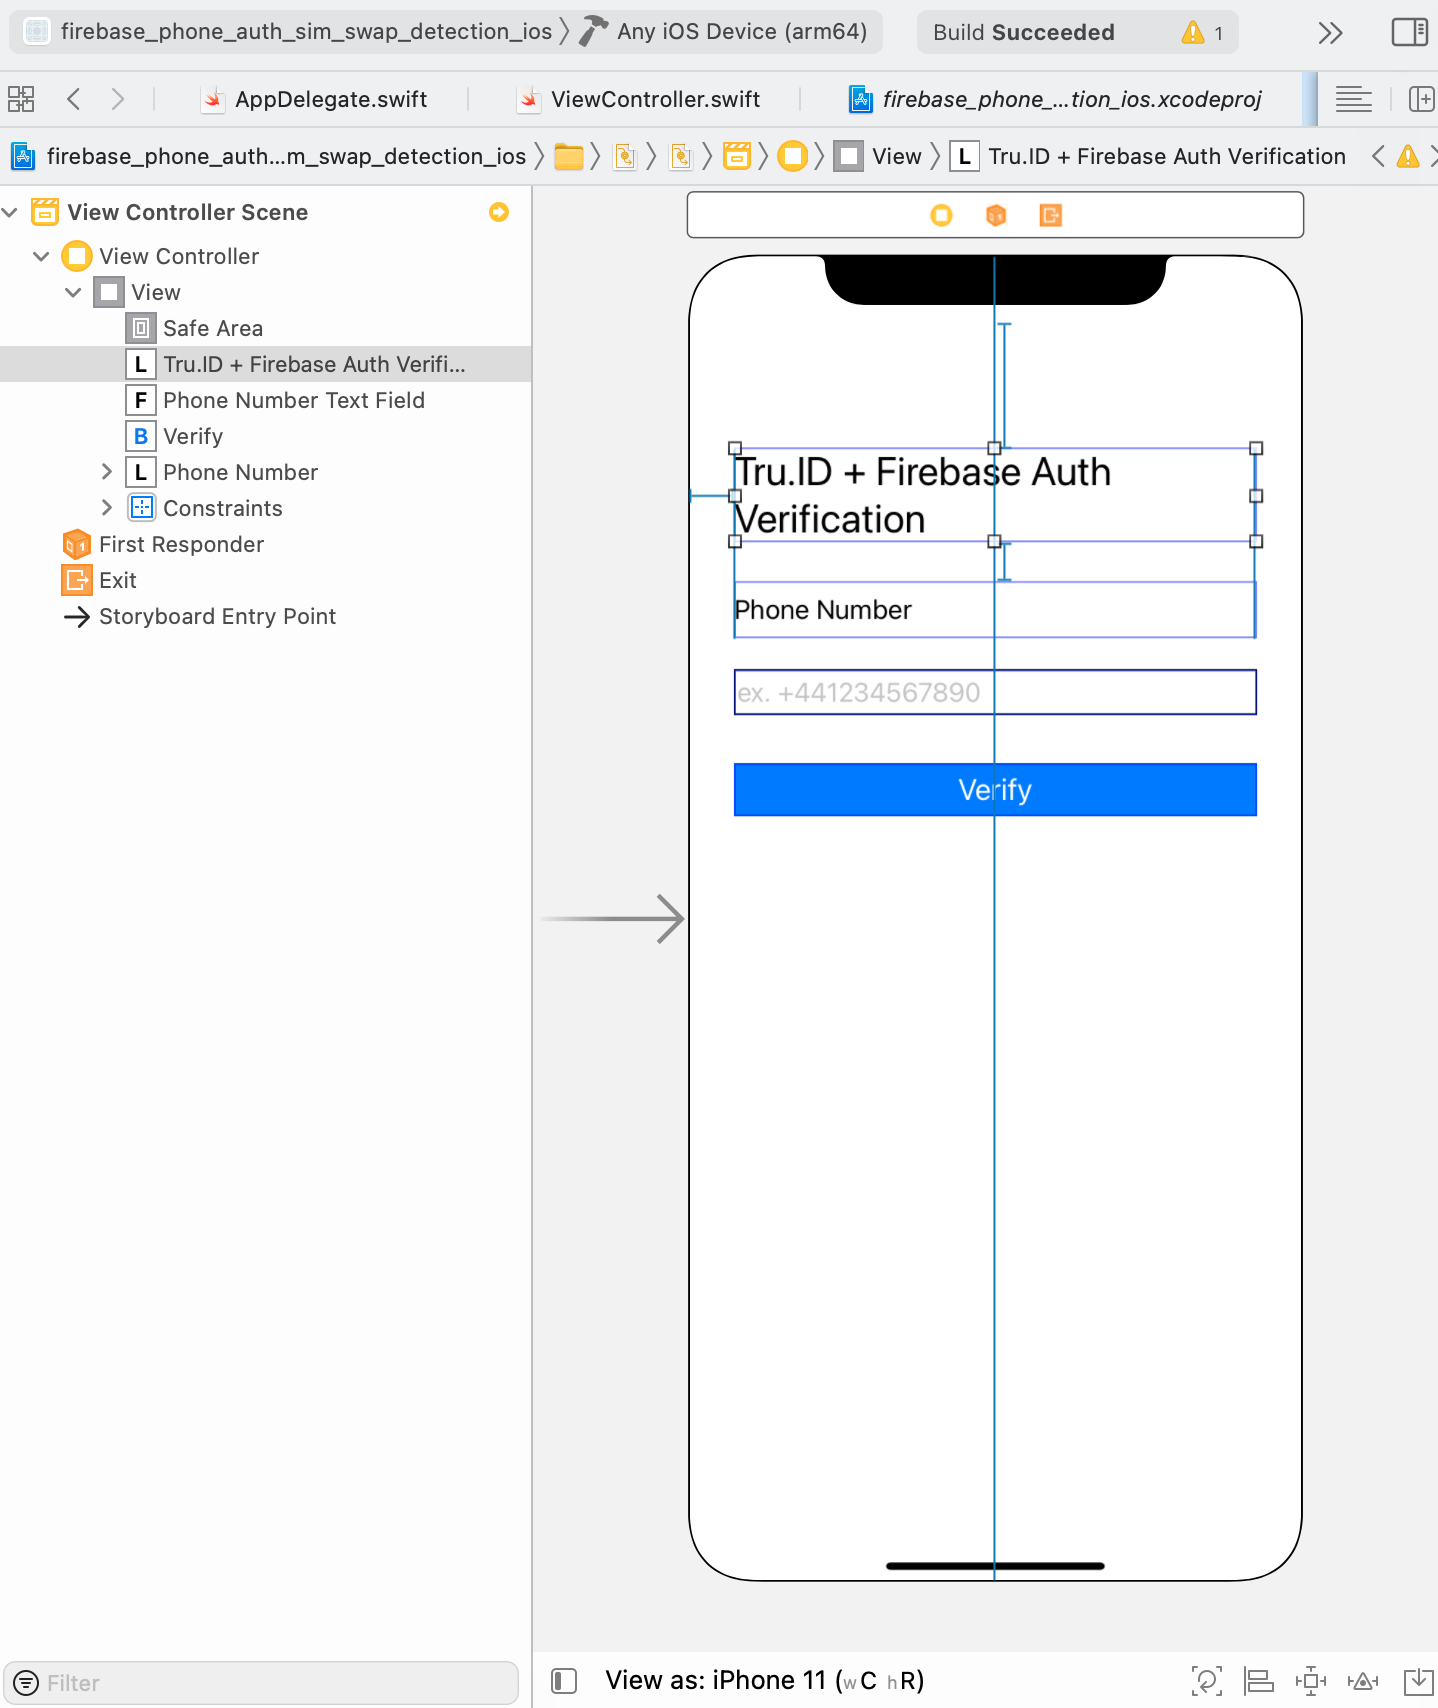
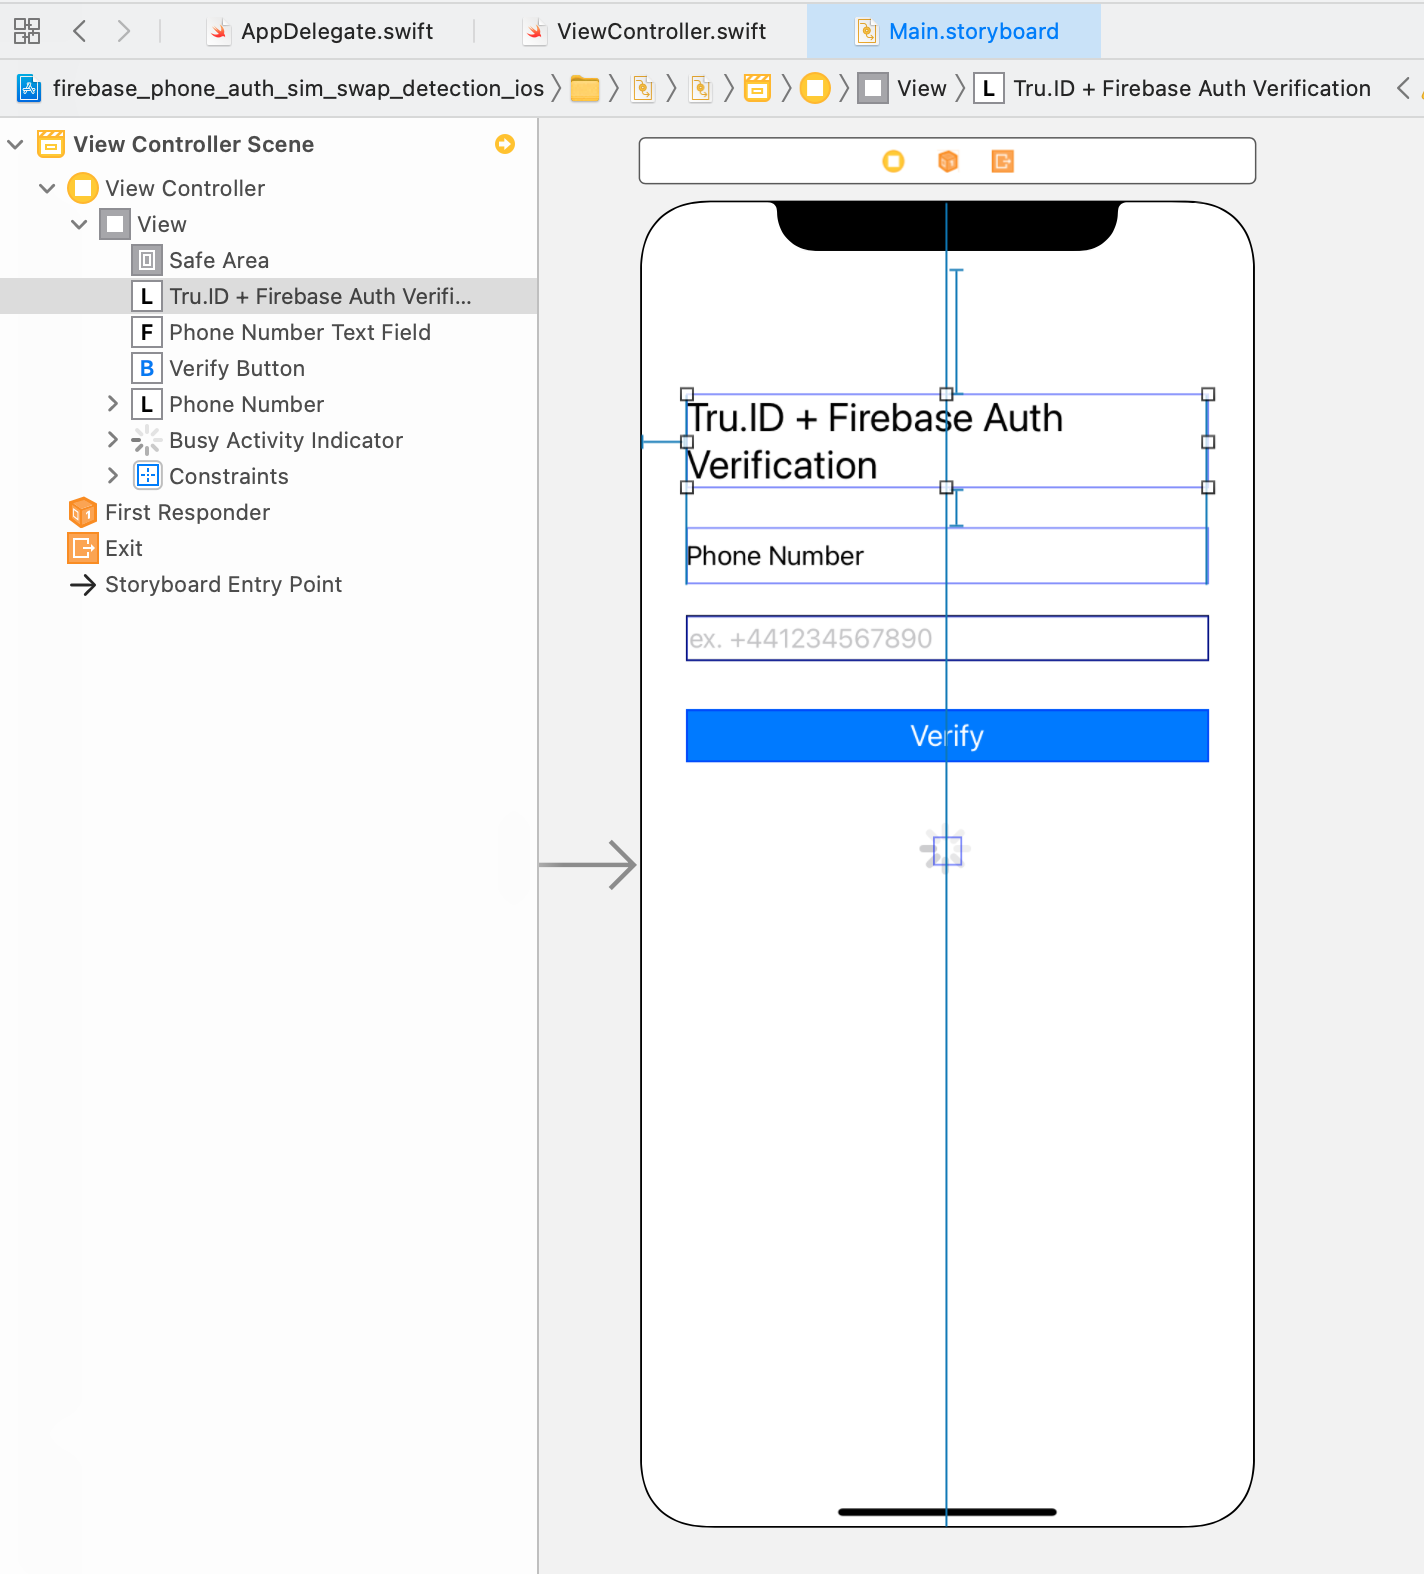
Amendments

diff --git a/firebase_phone_auth_sim_swap_detection_ios/ViewController.swift b/firebase_phone_auth_sim_swap_detection_ios/ViewController.swift
@@ -6,7 +6,7 @@
 //
 
 import UIKit
-import Firebase
+ import Firebase
 
 class ViewController: UIViewController {
     
@@ -16,15 +16,15 @@ class ViewController: UIViewController {
     
     @IBOutlet weak var verifyButton: UIButton!
     
-    
     @IBAction func verify(_ sender: Any) {
         if let phoneNumber = phoneNumberTextField.text, !phoneNumber.isEmpty {
             controls(enabled: false)
+            self.executeFirebasePhoneVerification(phoneNumber: phoneNumber)
+            /*
             truIDSIMCheckVerification(phoneNumber: phoneNumber) { result, error in
                 DispatchQueue.main.async {
                     if result == true {
                         self.executeFirebasePhoneVerification(phoneNumber: phoneNumber)
-                    
                     } else {
                         let alertController = UIAlertController(title: "SIM Change Detected", message: "SIM changed too recently. Please contact support.", preferredStyle: UIAlertController.Style.alert)
                         alertController.addAction(UIAlertAction(title: "OK", style: UIAlertAction.Style.default, handler: { (action) in
@@ -33,17 +33,18 @@ class ViewController: UIViewController {
                             self.dismiss(animated: true, completion: nil)
                         }))
                         self.present(alertController, animated: true, completion: nil)
-                        
+                        self.controls(enabled: true)
                     }
-                    self.controls(enabled: true)
                 }
+               
             }
+            */
         }
     }
     
     func truIDSIMCheckVerification(phoneNumber: String, completionHandler: @escaping (Bool, Error?) -> Void) {
         let session = URLSession.shared
-        let url = URL(string: "https://rotten-horse-35.loca.lt/sim-check")!
+        let url = URL(string: "https://horrible-ladybug-15.loca.lt/sim-check")!
         var urlRequest = URLRequest(url: url)
         urlRequest.httpMethod = "POST"
         urlRequest.addValue("application/json", forHTTPHeaderField: "Content-Type")
@@ -86,7 +87,7 @@ class ViewController: UIViewController {
     }
     
     func executeFirebasePhoneVerification(phoneNumber: String) {
-        if let phoneNumber = phoneNumberTextField.text, !phoneNumber.isEmpty {
+       
             Auth.auth().languageCode = "en"
             PhoneAuthProvider.provider().verifyPhoneNumber(phoneNumber, uiDelegate: nil) { [weak self] (verificationID, error) in
                 if let error = error {
@@ -95,9 +96,10 @@ class ViewController: UIViewController {
                         self?.dismiss(animated: true, completion: nil)
                     }))
                     self?.present(alertController, animated: true, completion: nil)
+                    self?.controls(enabled: true)
                     return
                 }
-                
+
                 //Save in case the app is terminated.
                 UserDefaults.standard.set(verificationID, forKey: "authVerificationID")
                 
@@ -115,6 +117,7 @@ class ViewController: UIViewController {
                                     self?.dismiss(animated: true, completion: nil)
                                 }))
                                 self?.present(alertController, animated: true, completion: nil)
+                                self?.controls(enabled: true)
                                 return
                             }
                             //"Sign In Success"
@@ -124,26 +127,21 @@ class ViewController: UIViewController {
                                 self?.dismiss(animated: true, completion: nil)
                             }))
                             self?.present(alertController, animated: true, completion: nil)
-                            
+                            self?.controls(enabled: true)
                         }
                     }
                 }
             }
-            
-        }
     }
     
     private func controls(enabled: Bool) {
-
         if enabled {
             busyActivityIndicator.stopAnimating()
         } else {
             busyActivityIndicator.startAnimating()
         }
-
         phoneNumberTextField.isEnabled = enabled
         verifyButton.isEnabled = enabled
-        
     }
     
     override func viewDidLoad() {

diff --git a/Tutorial.md b/Tutorial.md
@@ -48,7 +48,7 @@ This saves a `tru.json` **tru.ID** project configuration to `./firebaseauthsimio
 Run the development server by pointing it to the newly created project directory and configuration. This will also open up a localtunnel to your development server, making it publicly accessible to the Internet, so that your mobile phone can access it when only connected to mobile data.
 
 ```
-tru server --project-dir ./firebaseauthsimios
+tru server -t --project-dir ./firebaseauthsimios
 ```
 
 Take a note of the local tunnel URL, which will be needed for configuring the sample project. The URL is in the format `https://{subdomain}.loca.lt` This is the accessible public URL to your local development server. The development server is now ready and waiting to accept calls from the app. If your tunnel has ended, you can create a new one by repeating the final step.
@@ -129,7 +129,7 @@ Follow the instructions at the official Firebase documentation to [Add Firebase 
 
 After completing all 5 steps, you're set to build the User Interface within your iOS Project.
 
-## Build the user interface
+## Build the User Interface
 
 Navigate to the `Main.storyboard`. You need to add a few UI components to receive input from the user, and provide feedback:
 
@@ -137,6 +137,7 @@ Navigate to the `Main.storyboard`. You need to add a few UI components to receiv
 - A `UILabel` with a text "Phone number" to indicate what the next text field is for
 - A `UITextField` so that the user can enter their phone number
 - A `UIButton` with the text "Verify" to trigger the SIMCheck request
+- A `UIActivityIndicator`  to inform User (Large) to show/hide progress when you perform a SIMCheck
 
 All UI components are "Horizontally" aligned in the container using constraints. You should also define constraints to anchor the components as well. You can use Reset to Suggested Constraints within Resolve Auto Layout Issues.
 
@@ -147,6 +148,7 @@ The view layout should look like this:
 Add a few configuration options for these UI components:
 
 - Phone number `UITextField:` Select the text field, and on the **Attributes Inspector**, scroll to `Text Input Traits` and change the `Content Type` to `Telephone Number`. Also, change the `Keyboard Type` to `Phone Pad`.
+- `UIActivityIndicator`: Select the activity indicator, and on the **Attributes Inspector** check `Hides When Stopped`
 
 Next, let's define Outlets in the ViewController so that you can control the UI state. Select `ViewController` in Xcode, and then by using the `⌥` select `Main.storyboard` file. Both `ViewController.swift` and `Main.storyboard` should be opened side by side.
 
@@ -154,10 +156,27 @@ Select the `UITextField` you inserted into the storyboard, and with `⌃` key pr
 
 When you are happy, release the keys and mouse/trackpad. You will be prompted to enter a name for the variable; type `phoneNumberTextField`. This allows you to retrieve the phone number entered by the user.
 
+You need to connect `UIButton` and `UIActivityIndicator` as well. Let's perform the above steps for these as well respectively and name them as follows:
+- verifyButton
+- busyActivityIndicator
+
 You now have one last task to do related to the storyboard. Let's insert an action. When a user taps on the **Verify** button, you want the `ViewController` to know that the user wants to initiate the SIMCheck. So select the `Verify` button, and with your `⌃` key pressed drag a connection from the storyboard to the `ViewController.swift`. Xcode indicates possible places where you can create an `IBAction`. When you are happy, release the keys and mouse/trackpad. You will be prompted to enter a name for the method: type `verify` and Xcode will insert the method with a IBAction annotation.
 
 ![Screenshot2](Screenshot02.png)
 
+It is time to write some code to manage the UI state. The method you are going to add is controls(enabled: Bool). This method helps us show or hide the busyActivityIndicator. You should also disable the phoneNumberTextField when the FirebasePhoneAuthentication/SIMCheck flow is in progress.
+```swift
+private func controls(enabled: Bool) {
+    if enabled {
+        busyActivityIndicator.stopAnimating()
+    } else {
+        busyActivityIndicator.startAnimating()
+    }
+    phoneNumberTextField.isEnabled = enabled
+    verifyButton.isEnabled = enabled
+}
+```
+You will use this method later in the `verify(_ sender: Any)` that is triggered by the user tapping the `Verify` button.
 ## Add Firebase phone authentication
 
 Now that you have your Firebase project set up and your User Interface built up, you can start with enabling Phone Number sign-in for your Firebase project.
@@ -198,22 +217,23 @@ With all the configuration set up we're in a position to write the code to [send
 
 To do this, create a method for the Firebase Phone verification in `ViewController.swift` named `executeFirebasePhoneVerification` to be called when the `verify` button touched.
 
-**TODO: code was updated to check the phone number value within `verify` and then call `executeFirebasePhoneVerification`, passing a phone number**
+**TODO: code was updated to check the phone number value within `verify` and then call `executeFirebasePhoneVerification`, passing a phone number** **DONE**
 
-**TODO: I think we need some user feedback that something is happening. At least disable the textfield and button. Can we add a function to toggle this?**
+**TODO: I think we need some user feedback that something is happening. At least disable the textfield and button. Can we add a function to toggle this?** **DONE**
+
 
 ```swift
 import Firebase
 
 @IBAction func verify(_ sender: Any) {
     if let phoneNumber = phoneNumberTextField.text, !phoneNumber.isEmpty {
+        controls(enabled: false)
         self.executeFirebasePhoneVerification(phoneNumber: phoneNumber)
     }
 }
 
 func executeFirebasePhoneVerification(phoneNumber: String) {
     Auth.auth().languageCode = "en"
-
     PhoneAuthProvider.provider().verifyPhoneNumber(phoneNumber, uiDelegate: nil) { [weak self] (verificationID, error) in
         if let error = error {
         // An Alert is created to notify the User for errors.
@@ -222,15 +242,16 @@ func executeFirebasePhoneVerification(phoneNumber: String) {
                 self?.dismiss(animated: true, completion: nil)
             }))
             self?.present(alertController, animated: true, completion: nil)
+            self?.controls(enabled: true)
             return
         }
-
         UserDefaults.standard.set(verificationID, forKey: "authVerificationID")
     }
 }
 ```
 
-The `verify` method in the above code gets the user's phone number from the phone number text field, checks the value and calls `executeFirebasePhoneVerification`.
+The `verify` method in the above code gets the user's phone number from the `phoneNumberTextField`, checks the value and calls `executeFirebasePhoneVerification`.
+The next step is to use the previously created `controls` method by setting the `enabled` variable to `false` in order to disable the phone number text field and the verify button, show the activity indicator and start spinning it when the user taps the **Verify** button. 
 
 Within `executeFirebasePhoneVerification` the auth language is set to English and `verifyPhoneNumber:UIDelegate:completion:` is called, passing to it the phone number.
 
@@ -239,6 +260,11 @@ When you call `verifyPhoneNumber:UIDelegate:completion:`, Firebase sends a silen
 The call to `UserDefaults.standard.set` saves the verification ID so it can be restored when your app loads. By doing so, you can ensure that you still have a valid verification ID if your app is terminated before the user completes the sign-in flow (for example, while switching to the SMS app).
 
 If the call to `verifyPhoneNumber:UIDelegate:completion:` succeeds you can prompt the user to type the verification code when they receive it via SMS message.
+
+You restore the UI controls back to their original state siwth the following code so that the use can re-execute the workflow, if needed:
+```swift
+self?.controls(enabled:true)
+```
 
 ### Sign the user in
 
